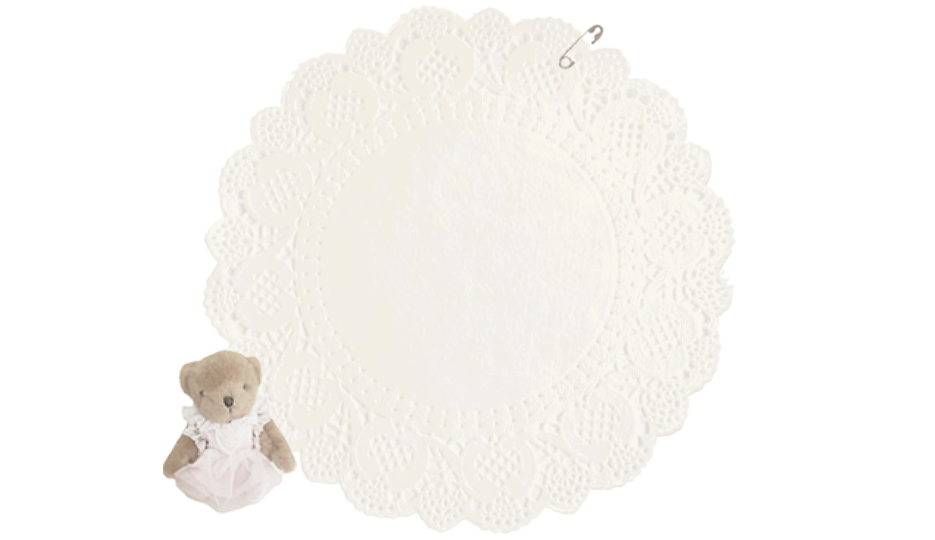
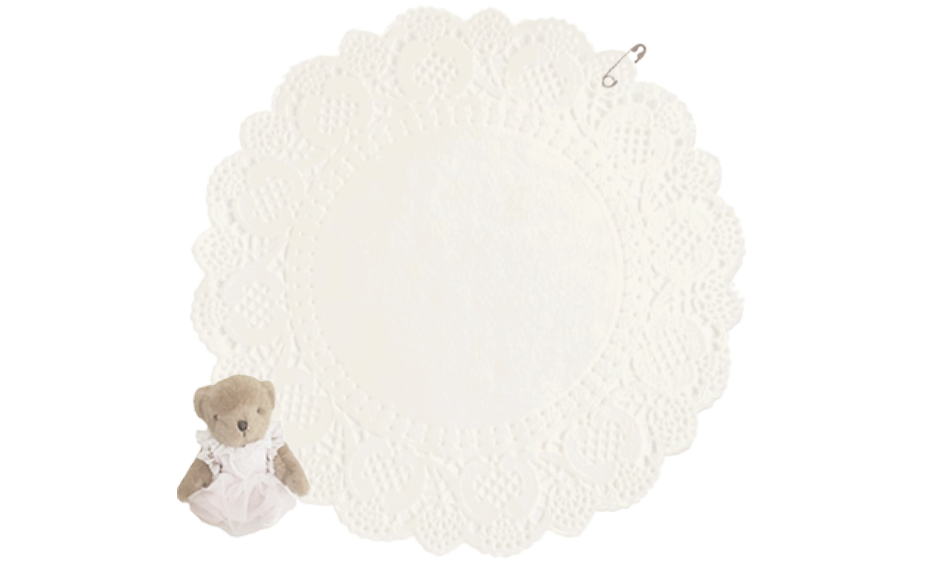
+

diff --git a/index.html b/index.html
@@ -521,7 +521,7 @@ pay a visit to my cottage, in the woods surrounding the mountain range, where yo
 you see, the internet is no longer the same one i fell in love with when i was a little girl. it is hard to recognize it at times, i feel like i don't belong .. <font color="#c9a5a5">but i hope i still managed to bring you comfort through softness. i tried my best </font><font color="#c9a5a5" style="font-size:9px;">♡</font><br>
 <br>
 i'm very proud of my creations, the career i've built - but mostly driven by nostalgia, i feel like i have an open wound that keeps hurting more the more time passes, the more i see the web changing. bland, rough, greedy, artificial.<br>
-i'm tired of being pushed, forced to adapt to the new and "better", of changing in order to be "accessible", tired of the judgment, of hiding in the corners, glueing the broken pieces, wiping the tears.. it's time to heal, and let go.<br>
+i'm tired of being pushed, forced to adapt to the new and "better", of changing in order to be accessible, tired of the judgment, of hiding in the corners, glueing the broken pieces, wiping the tears.. it's time to heal, and let go.<br>
 <br>
 the wonderful digital world has become a sweet memory i will forever hold close to my heart.. memories, however, of a time where i could only dream of being as happy as i am today. there is so much more waiting for me !<br>
 now, with this message, i hope i can inspire you to make your dream life a reality. if you can't fit in, step outside and keep looking for your happiness. little by little, you can get where you want to be - far beyond the pretty pictures on your screen.<br>
